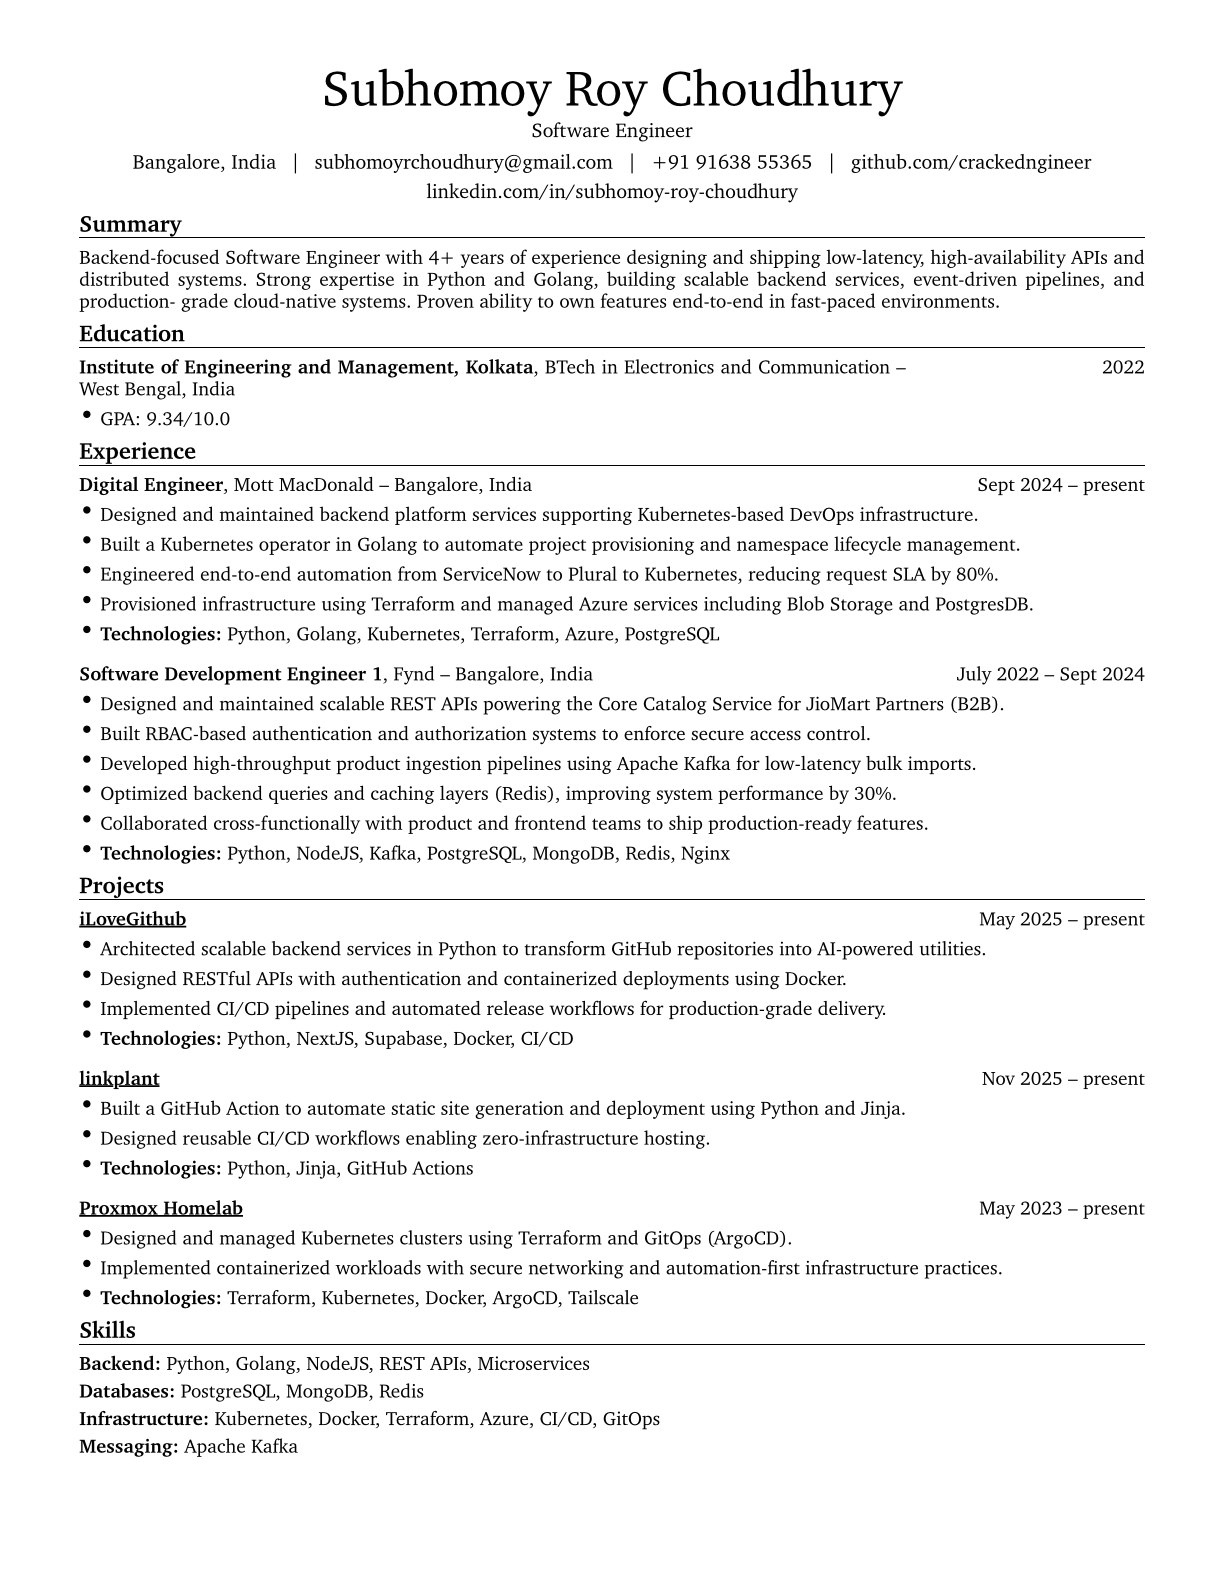
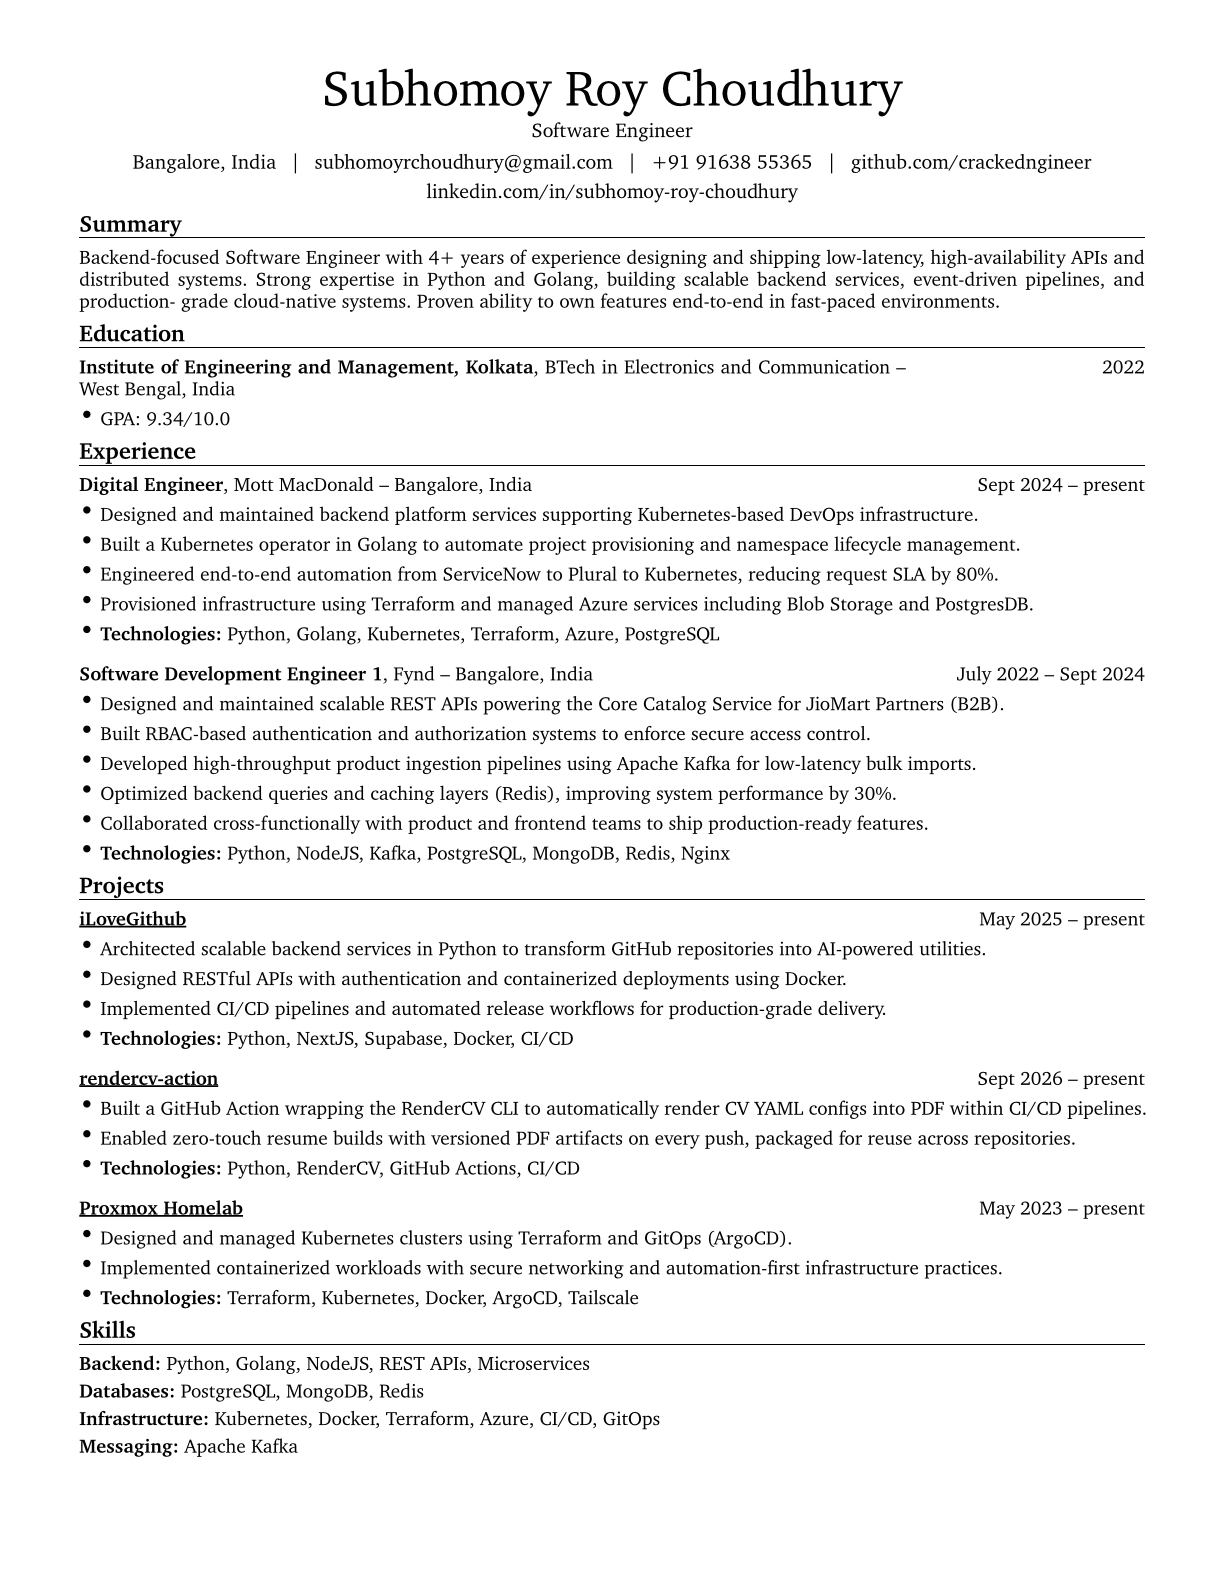
chore(pdf): update generated files

Changed region(s): [[0.0931, 0.6806, 0.9314, 0.7424]]

diff --git a/output/Subhomoy_Roy_Choudhury_CV.html b/output/Subhomoy_Roy_Choudhury_CV.html
@@ -114,17 +114,17 @@
         <p><strong>Technologies:</strong> Python, NextJS, Supabase, Docker, CI/CD</p>
         </li>
         </ul>
-        <h2><strong><a href="https://github.com/crackedngineer/linkplant">linkplant</a></strong></h2>
-        <p>Nov 2025 – present</p>
+        <h2><strong><a href="https://github.com/crackedngineer/rendercv-action">rendercv-action</a></strong></h2>
+        <p>Sept 2026 – present</p>
         <ul>
         <li>
-        <p>Built a GitHub Action to automate static site generation and deployment using Python and Jinja.</p>
+        <p>Built a GitHub Action wrapping the RenderCV CLI to automatically render CV YAML configs into PDF within CI/CD pipelines.</p>
         </li>
         <li>
-        <p>Designed reusable CI/CD workflows enabling zero-infrastructure hosting.</p>
+        <p>Enabled zero-touch resume builds with versioned PDF artifacts on every push, packaged for reuse across repositories.</p>
         </li>
         <li>
-        <p><strong>Technologies:</strong> Python, Jinja, GitHub Actions</p>
+        <p><strong>Technologies:</strong> Python, RenderCV, GitHub Actions, CI/CD</p>
         </li>
         </ul>
         <h2><strong><a href="https://github.com/crackedngineer/homelab-infrastructure">Proxmox Homelab</a></strong></h2>

diff --git a/output/Subhomoy_Roy_Choudhury_CV.md b/output/Subhomoy_Roy_Choudhury_CV.md
@@ -68,15 +68,15 @@ May 2025 – present
 
 
 
-## **[linkplant](https://github.com/crackedngineer/linkplant)**
+## **[rendercv-action](https://github.com/crackedngineer/rendercv-action)**
 
-Nov 2025 – present
+Sept 2026 – present
 
-- Built a GitHub Action to automate static site generation and deployment using Python and Jinja.
+- Built a GitHub Action wrapping the RenderCV CLI to automatically render CV YAML configs into PDF within CI/CD pipelines.
 
-- Designed reusable CI/CD workflows enabling zero-infrastructure hosting.
+- Enabled zero-touch resume builds with versioned PDF artifacts on every push, packaged for reuse across repositories.
 
-- **Technologies:** Python, Jinja, GitHub Actions
+- **Technologies:** Python, RenderCV, GitHub Actions, CI/CD
 
 
 
